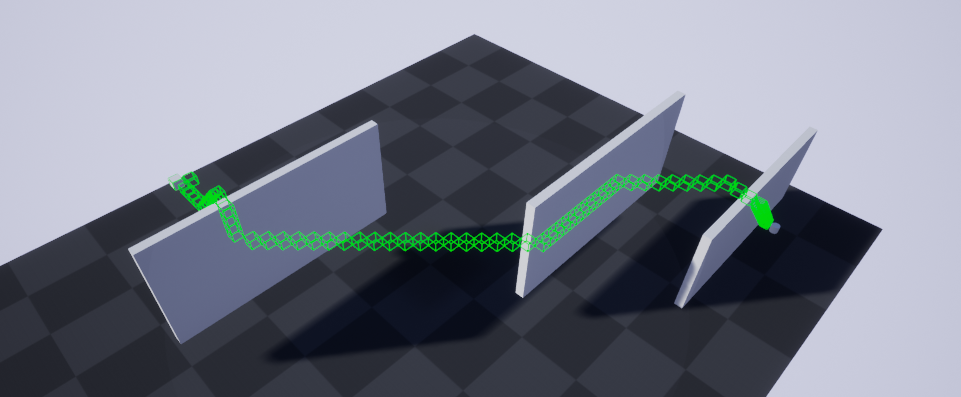
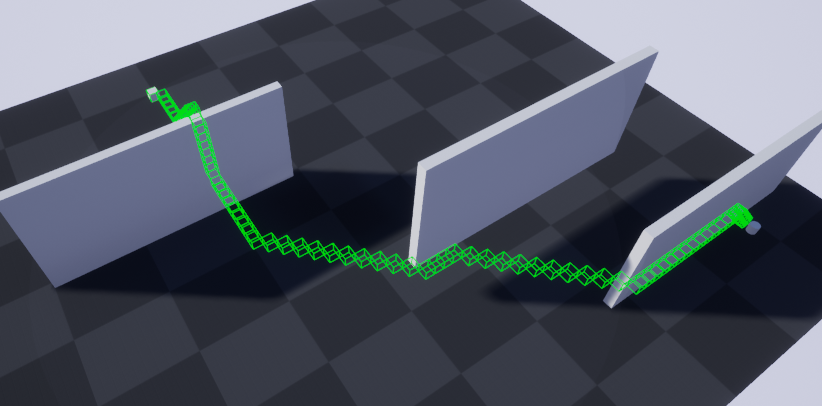
Assigned Collision Components Start/End Actors

diff --git a/Source/AStarAlgorithm/AStarPathFindingComponent.cpp b/Source/AStarAlgorithm/AStarPathFindingComponent.cpp
@@ -8,25 +8,25 @@ UAStarPathFindingComponent::UAStarPathFindingComponent()
 {
 	// Set this component to be initialized when the game starts, and to be ticked every frame.  You can turn these features
 	// off to improve performance if you don't need them.
-	PrimaryComponentTick.bCanEverTick = true;	
+	PrimaryComponentTick.bCanEverTick = true;
 }
 
 // Called when the game starts
 void UAStarPathFindingComponent::BeginPlay()
 {
-	Super::BeginPlay();	
-	
+	Super::BeginPlay();
+
 	if (AEndActor != nullptr)
-	{		
-		if (FStartNodeExtent ==FVector(0.0f))
+	{
+		if (FStartNodeExtent == FVector(0.0f))
 		{
 			FStartNodeExtent = this->GetOwner()->GetComponentsBoundingBox(false).GetSize() / 2;
-		}		
+		}
 
-		SuccessorPositions = FSuccessorPositions((FStartNodeExtent)*2);
+		SuccessorPositions = FSuccessorPositions((FStartNodeExtent) * 2);
 		AAStarNode* SpawnedNode = nullptr;
 		FActorSpawnParameters SpawnParams;
-		
+
 		SpawnParams.Owner = this->GetOwner();
 		SpawnParams.SpawnCollisionHandlingOverride = ESpawnActorCollisionHandlingMethod::AlwaysSpawn;
 		FRotator rotator(0.0f);
@@ -35,37 +35,43 @@ void UAStarPathFindingComponent::BeginPlay()
 
 		SpawnedNode = World->SpawnActor<AAStarNode>(AAStarNode::StaticClass(), spawnLocation, rotator, SpawnParams);
 		this->StartNode = SpawnedNode;
-		
+
 		SpawnedNode->BoxComponent->SetBoxExtent(FStartNodeExtent);
-		SpawnedNode->bNodeDrawExtent = bDrawBoxExtents;		
-		ANodePriority.HeapPush(SpawnedNode, [](AAStarNode& a, AAStarNode& b) {return a.gCost < b.gCost; });
+		SpawnedNode->bNodeDrawExtent = bDrawBoxExtents;
+
+		UMeshComponent* SpawnedMeshComponent = StaticCast<UMeshComponent*>(AEndActor->GetComponentByClass(UMeshComponent::StaticClass()));
+
+		SpawnedMeshComponent->SetCollisionResponseToChannel(ECC_GameTraceChannel1, ECR_Overlap);
+
+		ANodePriority.HeapPush(SpawnedNode, [](AAStarNode& a, AAStarNode& b) {return a.fCost < b.fCost; });
 
 		SpawnedNode = nullptr;
 		spawnLocation = AEndActor->GetActorLocation();
 		SpawnedNode = World->SpawnActor<AAStarNode>(AAStarNode::StaticClass(), spawnLocation, rotator, SpawnParams);
 		this->EndNode = SpawnedNode;
-		SpawnedNode->bNodeDrawExtent = bDrawBoxExtents;	
+		SpawnedNode->bNodeDrawExtent = bDrawBoxExtents;
 
-		if (FEndNodeExtent==FVector(0.0f))
+		if (FEndNodeExtent == FVector(0.0f))
 		{
-			FEndNodeExtent = AEndActor->GetComponentsBoundingBox(false).GetSize()/2;			
+			FEndNodeExtent = AEndActor->GetComponentsBoundingBox(false).GetSize() / 2;
 		}
 
 		SpawnedNode->BoxComponent->SetBoxExtent(FEndNodeExtent);
 		ANodePathList.AddHead(SpawnedNode);
 
 		ANodePriority.HeapTop()->lCost = 0;
-		ANodePriority.HeapTop()->gCost =ANodePriority.HeapTop()->GetSquaredDistanceTo(ANodePathList.GetHead()->GetValue());
-		ANodePriority.HeapTop()->fCost =ANodePriority.HeapTop()->gCost +ANodePriority.HeapTop()->lCost;
+		ANodePriority.HeapTop()->gCost = ANodePriority.HeapTop()->GetSquaredDistanceTo(ANodePathList.GetHead()->GetValue());
+		ANodePriority.HeapTop()->fCost = ANodePriority.HeapTop()->gCost + ANodePriority.HeapTop()->lCost;
 
 		ANodePathList.GetHead()->GetValue()->gCost = 0;
 
-		//TODO: Set up Start and End AActor's collision components to overlap NodeObjectChannel (CustomObjectCollisionChannel)
-		//UBoxComponent* SpawnedBoxComponent =StaticCast<UBoxComponent*>( AEndActor->GetComponentByClass(UBoxComponent::StaticClass()));		
-		//SpawnedBoxComponent->SetCollisionResponseToChannel(ECC_GameTraceChannel1); 
 
-		bPathfindingRequired = true;		
-	}	
+		SpawnedMeshComponent = StaticCast<UMeshComponent*>(AEndActor->GetComponentByClass(UMeshComponent::StaticClass()));
+
+		SpawnedMeshComponent->SetCollisionResponseToChannel(ECC_GameTraceChannel1, ECR_Overlap);
+
+		bPathfindingRequired = true;
+	}
 }
 
 // Called every frame
@@ -80,23 +86,23 @@ void UAStarPathFindingComponent::TickComponent(float DeltaTime, ELevelTick TickT
 			SpawnNodes();
 			Algorithm();
 		}
-		else 
-		{			
+		else
+		{
 			while (ANodePathList.GetHead()->GetValue() != StartNode)
 			{
-				ANodePathList.GetHead()->GetValue()->bNodeDrawExtent=true;
-				ANodePathList.AddHead(ANodePathList.GetHead()->GetValue()->ParentNode);			
+				ANodePathList.GetHead()->GetValue()->bNodeDrawExtent = true;
+				ANodePathList.AddHead(ANodePathList.GetHead()->GetValue()->ParentNode);
 			}
 			bPathfindingRequired = false;
 		}
-	}	
+	}
 }
 
 void  UAStarPathFindingComponent::Algorithm()
 {
-	 AAStarNode* CurrentNode=nullptr;
-	 ANodePriority.HeapPop(CurrentNode, [](AAStarNode& a, AAStarNode& b) {return a.gCost < b.gCost; });
-	
+	AAStarNode* CurrentNode = nullptr;
+	ANodePriority.HeapPop(CurrentNode, [](AAStarNode& a, AAStarNode& b) {return a.fCost < b.fCost; });
+
 	for (int i = 0; i < CurrentNode->ArrayNeighbours.Num(); i++)
 	{
 		float Distance = CurrentNode->GetSquaredDistanceTo(CurrentNode->ArrayNeighbours[i]);
@@ -104,41 +110,41 @@ void  UAStarPathFindingComponent::Algorithm()
 		if ((CurrentNode->lCost + Distance) < CurrentNode->ArrayNeighbours[i]->lCost)
 		{
 			CurrentNode->ArrayNeighbours[i]->ParentNode = CurrentNode;
-			CurrentNode->ArrayNeighbours[i]->lCost =CurrentNode->lCost + Distance;
-			CurrentNode->ArrayNeighbours[i]->gCost =CurrentNode->ArrayNeighbours[i]->GetSquaredDistanceTo(ANodePathList.GetHead()->GetValue());
-			CurrentNode->ArrayNeighbours[i]->fCost =CurrentNode->ArrayNeighbours[i]->lCost + CurrentNode->ArrayNeighbours[i]->gCost;	
-			
-			ANodePriority.HeapPush(CurrentNode->ArrayNeighbours[i], [](AAStarNode& a, AAStarNode& b) {return a.gCost < b.gCost; });			
+			CurrentNode->ArrayNeighbours[i]->lCost = CurrentNode->lCost + Distance;
+			CurrentNode->ArrayNeighbours[i]->gCost = CurrentNode->ArrayNeighbours[i]->GetSquaredDistanceTo(ANodePathList.GetHead()->GetValue());
+			CurrentNode->ArrayNeighbours[i]->fCost = CurrentNode->ArrayNeighbours[i]->lCost + CurrentNode->ArrayNeighbours[i]->gCost;
+
+			ANodePriority.HeapPush(CurrentNode->ArrayNeighbours[i], [](AAStarNode& a, AAStarNode& b) {return a.fCost < b.fCost; });
 		}
-	}		
+	}
 }
 
 void  UAStarPathFindingComponent::SpawnNodes()
 {//SNPAWNS AND CHECKS NEIGHBOURS INTO LIST
-	
+
 	SuccessorPositions.AssignNewPositions(ANodePriority.HeapTop()->GetActorLocation());
-	UWorld* world = GetWorld();	
-	
-	for (int i = 0; i< SuccessorPositions.FVectorSuccessors.Num(); i++)
+	UWorld* world = GetWorld();
+
+	for (int i = 0; i < SuccessorPositions.FVectorSuccessors.Num(); i++)
 	{
 		AAStarNode* SpawnedNode = nullptr;
 		FActorSpawnParameters SpawnParams;
 
-		SpawnParams.SpawnCollisionHandlingOverride = ESpawnActorCollisionHandlingMethod::DontSpawnIfColliding;		
+		SpawnParams.SpawnCollisionHandlingOverride = ESpawnActorCollisionHandlingMethod::DontSpawnIfColliding;
 		SpawnParams.Owner = this->GetOwner();
 		SpawnParams.Template = NULL;
-		
+
 		FRotator rotator(0.0f);
 		FVector spawnLocation = SuccessorPositions.FVectorSuccessors[i];
-		SpawnedNode = world->SpawnActor<AAStarNode>(AAStarNode::StaticClass(), spawnLocation, rotator, SpawnParams);	
+		SpawnedNode = world->SpawnActor<AAStarNode>(AAStarNode::StaticClass(), spawnLocation, rotator, SpawnParams);
 
-		if (SpawnedNode!=nullptr)
-		{			
+		if (SpawnedNode != nullptr)
+		{
 			TArray<AActor*> OverlappingActors;
 			SpawnedNode->GetOverlappingActors(OverlappingActors, AAStarNode::StaticClass());
-			if (OverlappingActors.Num()==0)
+			if (OverlappingActors.Num() == 0)
 			{
-				SpawnedNode->BoxComponent->SetBoxExtent(FEndNodeExtent);
+				SpawnedNode->BoxComponent->SetBoxExtent(FStartNodeExtent);
 				SpawnedNode->bNodeDrawExtent = bDrawBoxExtents;
 				ANodePriority.HeapTop()->ArrayNeighbours.Add(SpawnedNode);
 			}
@@ -151,8 +157,8 @@ void  UAStarPathFindingComponent::SpawnNodes()
 				}
 				SpawnedNode->Destroy();
 			}
-								
-		}		
+
+		}
 	}
 }
 
@@ -160,34 +166,33 @@ void  UAStarPathFindingComponent::FSuccessorPositions::AssignConstants(FVector _
 {
 	FVectorConstants.SetNum(26);
 
-	FVectorConstants[0]  = FVector(-_nodeSpacing.X, _nodeSpacing.Y,-_nodeSpacing.Z);
-	FVectorConstants[1]  = FVector(           0.0f, _nodeSpacing.Y,-_nodeSpacing.Z);
-	FVectorConstants[2]  = FVector( _nodeSpacing.X, _nodeSpacing.Y,-_nodeSpacing.Z);
-	FVectorConstants[3]  = FVector(-_nodeSpacing.X,		 	  0.0f,-_nodeSpacing.Z);
-	FVectorConstants[4]  = FVector(           0.0f,           0.0f,-_nodeSpacing.Z);
-	FVectorConstants[5]  = FVector( _nodeSpacing.X,		      0.0f,-_nodeSpacing.Z);
-	FVectorConstants[6]  = FVector(-_nodeSpacing.X,-_nodeSpacing.Y,-_nodeSpacing.Z);
-	FVectorConstants[7]  = FVector(		      0.0f,-_nodeSpacing.Y,-_nodeSpacing.Z);
-	FVectorConstants[8]  = FVector( _nodeSpacing.X,-_nodeSpacing.Y,-_nodeSpacing.Z);
+	FVectorConstants[0] = FVector(-_nodeSpacing.X, _nodeSpacing.Y, -_nodeSpacing.Z);
+	FVectorConstants[1] = FVector(0.0f, _nodeSpacing.Y, -_nodeSpacing.Z);
+	FVectorConstants[2] = FVector(_nodeSpacing.X, _nodeSpacing.Y, -_nodeSpacing.Z);
+	FVectorConstants[3] = FVector(-_nodeSpacing.X, 0.0f, -_nodeSpacing.Z);
+	FVectorConstants[4] = FVector(0.0f, 0.0f, -_nodeSpacing.Z);
+	FVectorConstants[5] = FVector(_nodeSpacing.X, 0.0f, -_nodeSpacing.Z);
+	FVectorConstants[6] = FVector(-_nodeSpacing.X, -_nodeSpacing.Y, -_nodeSpacing.Z);
+	FVectorConstants[7] = FVector(0.0f, -_nodeSpacing.Y, -_nodeSpacing.Z);
+	FVectorConstants[8] = FVector(_nodeSpacing.X, -_nodeSpacing.Y, -_nodeSpacing.Z);
 
-	FVectorConstants[9]  = FVector(-_nodeSpacing.X, _nodeSpacing.Y,			  0.0f);
-	FVectorConstants[10] = FVector(		      0.0f, _nodeSpacing.Y,			  0.0f);
-	FVectorConstants[11] = FVector( _nodeSpacing.X, _nodeSpacing.Y,			  0.0f);
-	FVectorConstants[12] = FVector(-_nodeSpacing.X,			  0.0f,			  0.0f);
+	FVectorConstants[9] = FVector(-_nodeSpacing.X, _nodeSpacing.Y, 0.0f);
+	FVectorConstants[10] = FVector(0.0f, _nodeSpacing.Y, 0.0f);
+	FVectorConstants[11] = FVector(_nodeSpacing.X, _nodeSpacing.Y, 0.0f);
+	FVectorConstants[12] = FVector(-_nodeSpacing.X, 0.0f, 0.0f);
 	//MIDDLE OF FVector(0,0,0);
-	FVectorConstants[13] = FVector( _nodeSpacing.X,			  0.0f,			  0.0f);
-	FVectorConstants[14] = FVector(-_nodeSpacing.X,-_nodeSpacing.Y,			  0.0f);
-	FVectorConstants[15] = FVector(		      0.0f,-_nodeSpacing.Y,			  0.0f);
-	FVectorConstants[16] = FVector( _nodeSpacing.X,-_nodeSpacing.Y,			  0.0f);
+	FVectorConstants[13] = FVector(_nodeSpacing.X, 0.0f, 0.0f);
+	FVectorConstants[14] = FVector(-_nodeSpacing.X, -_nodeSpacing.Y, 0.0f);
+	FVectorConstants[15] = FVector(0.0f, -_nodeSpacing.Y, 0.0f);
+	FVectorConstants[16] = FVector(_nodeSpacing.X, -_nodeSpacing.Y, 0.0f);
 
 	FVectorConstants[17] = FVector(-_nodeSpacing.X, _nodeSpacing.Y, _nodeSpacing.Z);
-	FVectorConstants[18] = FVector(		     0.0f,  _nodeSpacing.Y, _nodeSpacing.Z);
-	FVectorConstants[19] = FVector( _nodeSpacing.X, _nodeSpacing.Y, _nodeSpacing.Z);
-	FVectorConstants[20] = FVector(-_nodeSpacing.X,			  0.0f, _nodeSpacing.Z);
-	FVectorConstants[21] = FVector(		      0.0f,			  0.0f, _nodeSpacing.Z);
-	FVectorConstants[22] = FVector( _nodeSpacing.X,			  0.0f, _nodeSpacing.Z);
-	FVectorConstants[23] = FVector(-_nodeSpacing.X,-_nodeSpacing.Y, _nodeSpacing.Z);
-	FVectorConstants[24] = FVector(		      0.0f,-_nodeSpacing.Y, _nodeSpacing.Z);
-	FVectorConstants[25] = FVector( _nodeSpacing.X,-_nodeSpacing.Y, _nodeSpacing.Z);
+	FVectorConstants[18] = FVector(0.0f, _nodeSpacing.Y, _nodeSpacing.Z);
+	FVectorConstants[19] = FVector(_nodeSpacing.X, _nodeSpacing.Y, _nodeSpacing.Z);
+	FVectorConstants[20] = FVector(-_nodeSpacing.X, 0.0f, _nodeSpacing.Z);
+	FVectorConstants[21] = FVector(0.0f, 0.0f, _nodeSpacing.Z);
+	FVectorConstants[22] = FVector(_nodeSpacing.X, 0.0f, _nodeSpacing.Z);
+	FVectorConstants[23] = FVector(-_nodeSpacing.X, -_nodeSpacing.Y, _nodeSpacing.Z);
+	FVectorConstants[24] = FVector(0.0f, -_nodeSpacing.Y, _nodeSpacing.Z);
+	FVectorConstants[25] = FVector(_nodeSpacing.X, -_nodeSpacing.Y, _nodeSpacing.Z);
 }
-

diff --git a/Source/AStarAlgorithm/AStarNode.cpp b/Source/AStarAlgorithm/AStarNode.cpp
@@ -18,20 +18,21 @@ AAStarNode::AAStarNode()
 	//MeshComponent->SetupAttachment(RootComponent);
 
 	BoxComponent = CreateDefaultSubobject<UBoxComponent>(TEXT("BoxComponent"));
-	
+
 	BoxComponent->SetCollisionProfileName(FName("NodePreset"));
+	BoxComponent->bMultiBodyOverlap = true;
 	//BoxComponent->CanEverAffectNavigation(false);
 	BoxComponent->SetUseCCD(true);
 	BoxComponent->SetupAttachment(GetRootComponent());
 
-	
+
 }
 
 // Called when the game starts or when spawned
 void AAStarNode::BeginPlay()
-{	
-	Super::BeginPlay();	
-	
+{
+	Super::BeginPlay();
+
 }
 
 // Called every frame
@@ -39,9 +40,8 @@ void AAStarNode::Tick(float DeltaTime)
 {
 	Super::Tick(DeltaTime);
 	if (bNodeDrawExtent)
-	{		
-		DrawDebugBox(GetWorld(), this->GetActorLocation(), this->GetComponentsBoundingBox().GetExtent(), FColor::Green, true, 5);		
+	{
+		DrawDebugBox(GetWorld(), this->GetActorLocation(), this->GetComponentsBoundingBox().GetExtent(), FColor::Green, true, 5);
 	}
 }
-
 
